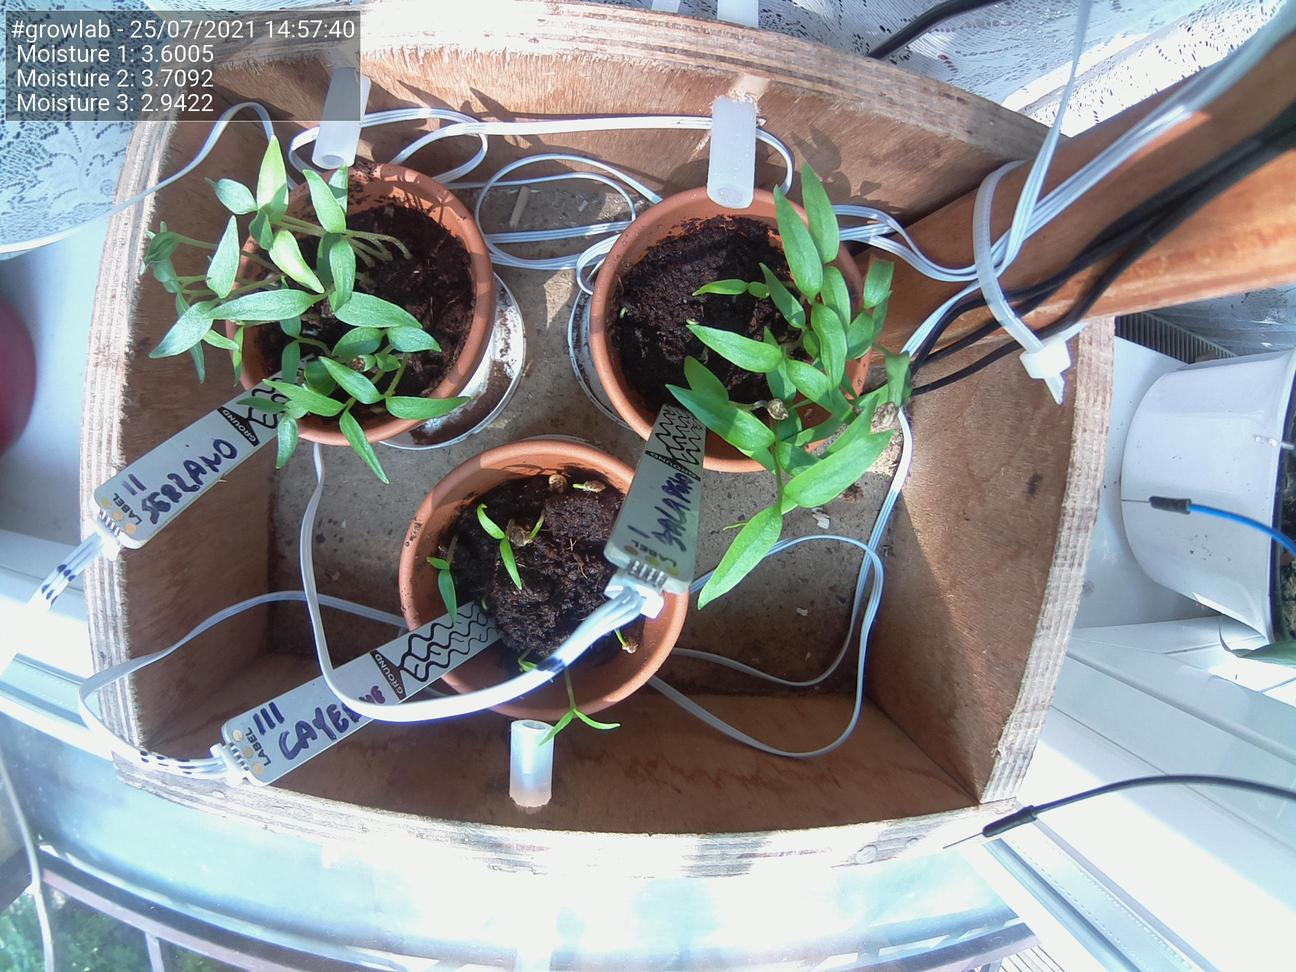
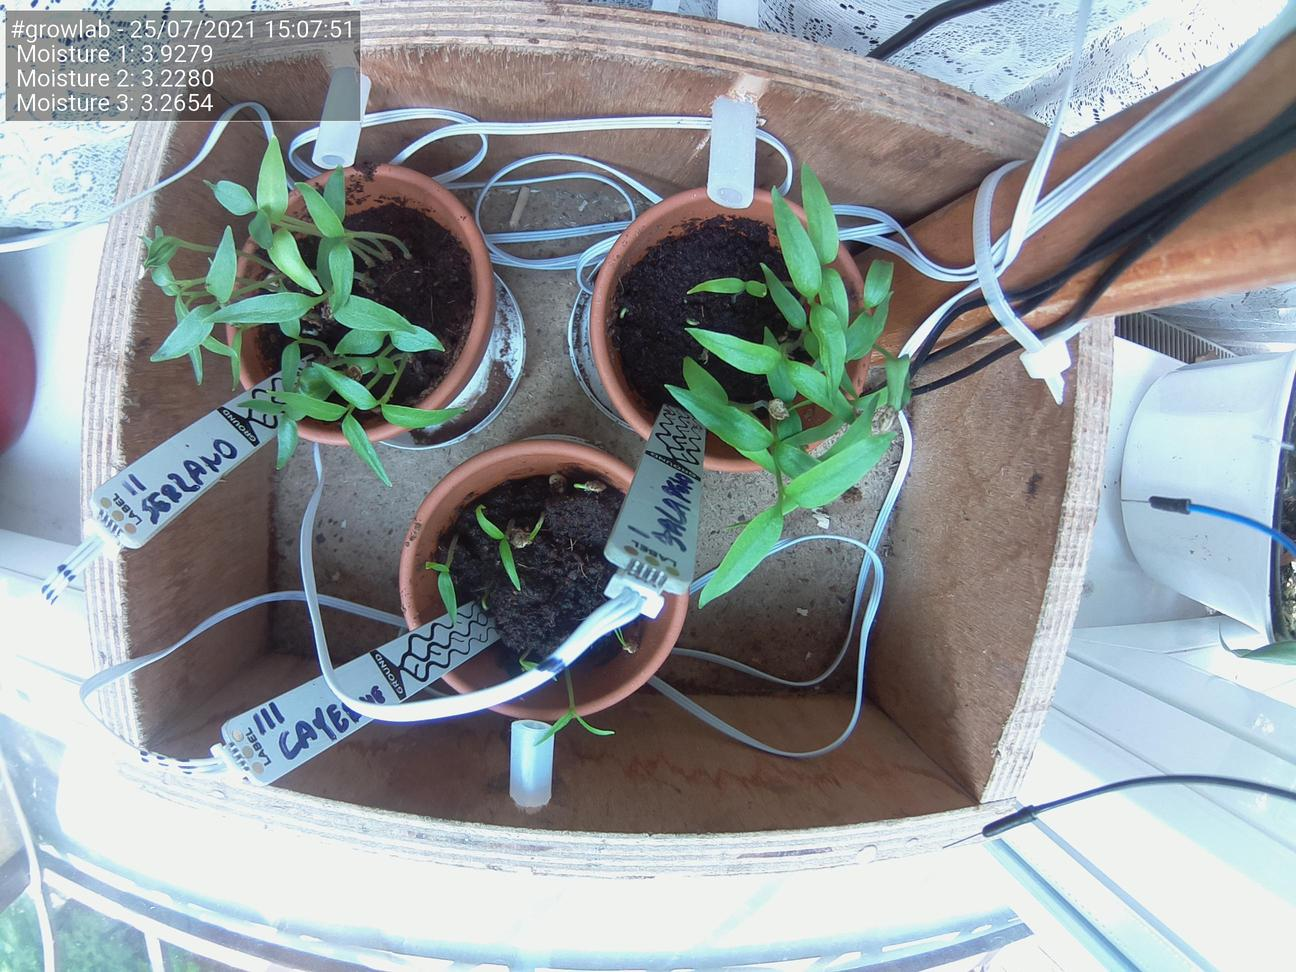
Update images at Sun 25 Jul 15:07:57 BST 2021

diff --git a/docs/index.html b/docs/index.html
@@ -51,25 +51,25 @@
                                 <td>Date</td>
                                 <td>25/07/2021</td>
                                 <td>Time</td>
-                                <td>14:57:40</td>
+                                <td>15:07:51</td>
                             </tr>
                             <tr>
                                 <td>Temperature</td>
                                 <td>N/A</td>
                                 <td>Moisture 1</td>
-                                <td>3.6005</td>
+                                <td>3.9279</td>
                             </tr>
                             <tr>
                                 <td>Humidity</td>
                                 <td>N/A</td>
                                 <td>Moisture 2</td>
-                                <td>3.7092</td>
+                                <td>3.2280</td>
                             </tr>
                             <tr>
                                 <td>Pressure</td>
                                 <td>N/A</td>
                                 <td>Moisture 3</td>
-                                <td>2.9422</td>
+                                <td>3.2654</td>
                             </tr>
                         </tbody>
                     </table>
@@ -77,7 +77,7 @@
 
                 <h5>Latest image</h5>
                 <div style="width: 85%;">
-                            <img class="figure-img img-fluid rounded" src="./preview.jpg?uid=1627221466.234105">
+                            <img class="figure-img img-fluid rounded" src="./preview.jpg?uid=1627222077.2941463">
                 </div>
             </div>
         </div>
